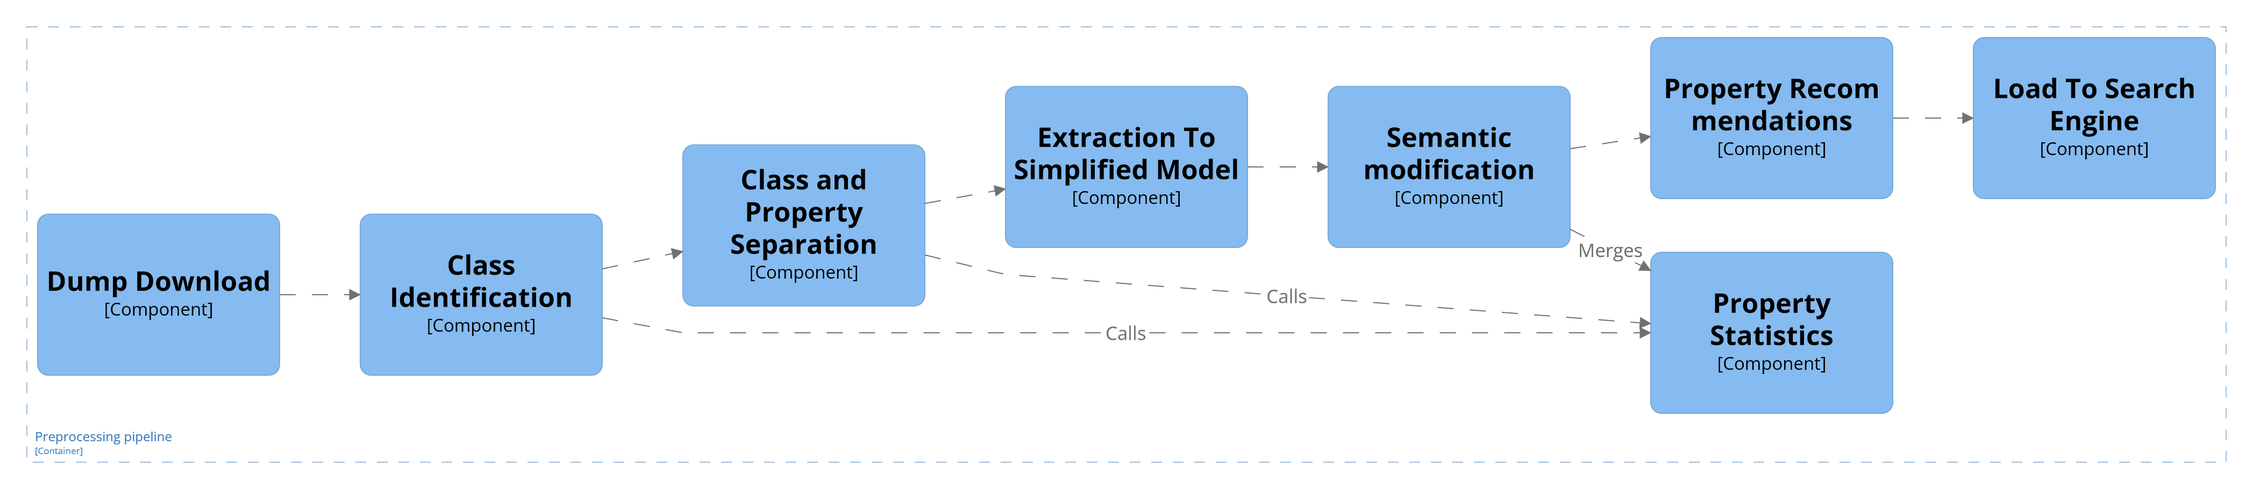
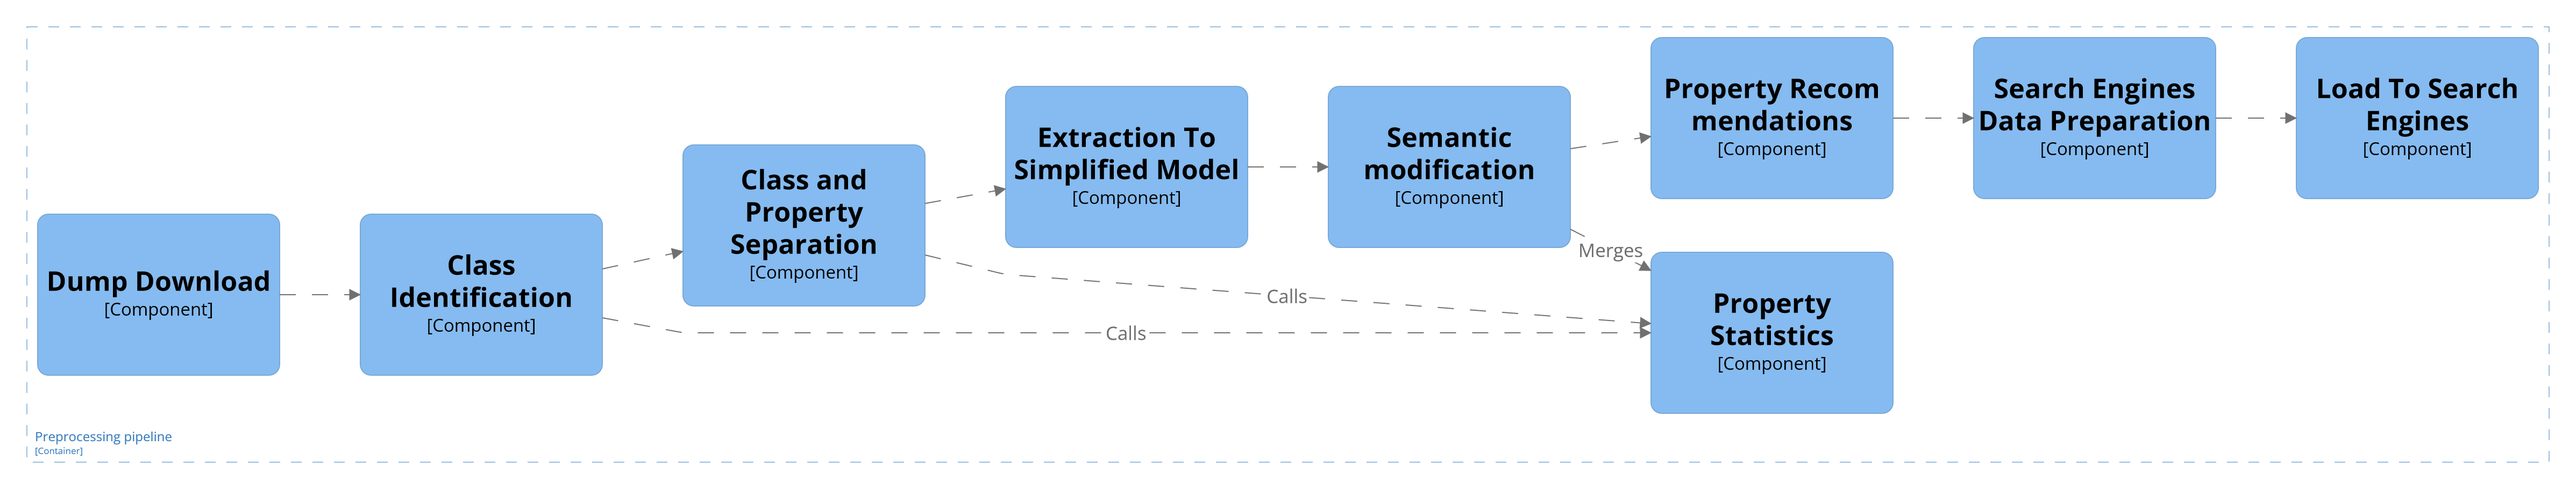
Changeing preprocessing readme

diff --git a/source/preprocessing/phases/run_all.py b/source/preprocessing/phases/run_all.py
@@ -9,9 +9,11 @@ import phases.extraction.extraction_phase as ext
 import phases.modification.modification_phase as mod
 import core.statistics.property_usage as property_usage
 import phases.property_recommendations.property_recommendations_phase as recs
-import phases.search_engine_loading.loading_to_es_search_phase as load
-import phases.search_engine_loading.elastic_search_helpers as load_helpers
-import phases.restart_service as restart_api
+import phases.restart_service as restart
+import phases.experimental_search_engine_data_preparation.search_engine_data_preparation_phase as prep
+import phases.experimental_search_engine_data_preparation.phase_parts.vectorize.vectorize_part as prep_vectorize
+import phases.experimental_search_engine_data_preparation.phase_parts.expand_to_language_fields.expand_to_language_fields_part as prep_expand
+import phases.experimental_search_engine_loading.search_engine_loading_phase as load
 
 main_logger = ul.root_logger.getChild("run_all")
 
@@ -20,6 +22,7 @@ class Phases(StrEnum):
     EXT = "ext"
     MOD = "mod"
     RECS = "recs"
+    PREP = "prep"
     LOAD = "load"
     ALL = "all"
 
@@ -28,7 +31,7 @@ def throw_on_fail(success):
         raise Exception("A phase failed")
 
 @timed(main_logger)    
-def main_run_all(download_dump: bool, continue_from: Phases, exclude_load: bool, restart_api_service: bool):
+def main_run_all(download_dump: bool, continue_from: Phases, exclude_load: bool, restart_services: bool):
     try:
         # Download
         if continue_from in [Phases.ALL] and download_dump:
@@ -55,15 +58,16 @@ def main_run_all(download_dump: bool, continue_from: Phases, exclude_load: bool,
             throw_on_fail(recs.main_property_recommendations(mod.CLASSES_OUTPUT_FILE_PATH, mod.PROPERTIES_OUTPUT_FILE_PATH))
             continue_from = Phases.ALL
         
-        # Load to ES
-        if continue_from in [Phases.ALL, Phases.LOAD] and not exclude_load:
-            load_helpers.delete()
-            load_helpers.create()
-            load_helpers.refresh()
-            throw_on_fail(load.main_loading(recs.CLASSES_OUTPUT_FILE_PATH, recs.PROPERTIES_OUTPUT_FILE_PATH))
+        if continue_from in [Phases.ALL, Phases.PREP]:
+            throw_on_fail(prep.main_search_engine_data_preparation(prep.Phases.ALL, recs.CLASSES_OUTPUT_FILE_PATH, recs.PROPERTIES_OUTPUT_FILE_PATH, download.DUMP_OUTPUT_FILE_PATH))
+            continue_from = Phases.ALL
         
-        if restart_api_service:
-            throw_on_fail(restart_api.main_restart_api_service())
+        if continue_from in [Phases.ALL, Phases.LOAD] and not exclude_load:
+            throw_on_fail(load.main_search_engine_loading(load.Phases.BOTH, prep_vectorize.CLASSE_OUTPUT_FILE_PATH, prep_vectorize.PROPERTIES_OUTPUT_FILE_PATH, prep_expand.CLASSES_OUTPUT_FILE_PATH))
+        
+        if restart_services:
+            throw_on_fail(restart.main_restart_api_service())
+            throw_on_fail(restart.main_restart_search_service())
         
     except Exception as e:
         main_logger.exception("There was an error that cannot be handled")

diff --git a/source/preprocessing/p_run_all_phases.py b/source/preprocessing/p_run_all_phases.py
@@ -14,9 +14,9 @@ if __name__ == "__main__":
     parser.add_argument('--exclude-load', default=False, action=argparse.BooleanOptionalAction, help="If set, the loading phase is exluded from the pipeline.")
     parser.add_argument("--continue-from",
                         type=str,
-                        choices=[Phases.ID_SEP, Phases.EXT, Phases.MOD, Phases.RECS, Phases.LOAD],
+                        choices=[Phases.ID_SEP, Phases.EXT, Phases.MOD, Phases.RECS, Phases.PREP, Phases.LOAD],
                         default=Phases.ALL,
                         help="Continue from a phase. Defaults to running all. Downloading can be done only if not continuing from a phase and download option is set.")    
     args = parser.parse_args()
     
-    main_run_all(args.lang, args.download, args.continue_from, args.exclude_load, args.restart)
+    main_run_all(args.download, args.continue_from, args.exclude_load, args.restart)

diff --git a/source/preprocessing/README.md b/source/preprocessing/README.md
@@ -9,29 +9,45 @@ This section is divided into three parts:
 
 ![missing picture](./readme-pictures/preprocessing.png)
 
-The preprocessing is done in 7 phases.:
+The preprocessing is done in 8 phases.:
 
-0. Download
-1. Identification 
+1. Download
+2. Identification 
    - The first pass of the dump .
      - Identification of classes and properties.
      - *Property usage statistics*
         - Store instance of values for each entity in the dump for further processing.
-2. Separation
+3. Separation
    -  She second pass of the dump.
       -  Separation of classes and properties from the dump into two new files preserving the Wikidata data model.
       -  *Property usage statistics*
            - Store property usage for domain and range of classes.
            - Compute summary from the stored property usage for each class and property.   
-3. Extraction 
+4. Extraction 
    - The data from separated wikidata classes and properties are extracted into a simplified data model.
-4. Modification
+5. Modification
    - Semantic and structural modifications are done on the simplified data model.
-5. Property Recommendations
+6. Property Recommendations
    - Merging of recommendations from property usage statistics with property constraints.
    - Boosting "properties for this type" properties.
-6. Loading to search engine
-   - Load labels and aliases into ElasticSearch service.
+7. Search Engines Data Preparation
+   - Prepares the data that will be loaded into Search engine and appropariate databases (Elastic and Qdrant).
+   - Consists of 5 parts:
+     1. Reduction of property usage 
+         - Enables efficient filtering for classes containing a set of properties.
+     2. Expanding to language fields 
+         - Expands specified entity ids fields into language fields (e.g. subclass of ids will be expanded to class labels)
+         - Essentially needs to iterate over the Wikidata dump again if the fields contain references to entities not present in the ontology.
+         - This enables a better lexicalization of entities.
+      3. Lexicalize entities
+         - Creates lexicalization of entities that will be subsequently vectorized.
+      4. Vecorize entities
+         - Vectorize the lexicalization of entities into dense and sparse vectors.
+      5. Minimization
+         - Creates new files containing minimized entities.
+         - Since the Search service itself does not need all the data from the preparation phase, this enables a faster start up of the Search service.        
+8. Loading to search engine
+   - Loads the prepared data into Qdrant database (vector search) and Elastic search (full-text search).
 
 > Note: 
 > 1. During 1. and 2. phase, there are running statistics for property usage happening during the dump pases. The statistics run with during 1. and 2. phase to reduce time of the computation.
@@ -52,7 +68,7 @@ There is also a script that is able to run all the phases at once (the bottom of
 ## Before running the scippts
 
 - Before running the scripts, read the instructions and preferably comments for each of the phases in `phases` folder.
-- The the pipeline also assumes there is an Elastic Search service running, that is later used by the API service.
+- The the last phases of the pipeline assumes there are runnig services: Qdrant, Elastic Search, and possibly the Seach service and API service in case the restart is needed - this service can restart the two mentioned services that is equivalent to reloading the new ontology files.
 - Read at the end how to run in development and containerization.
 
 ### Requirements
@@ -60,16 +76,22 @@ There is also a script that is able to run all the phases at once (the bottom of
 - Python 3.11 and above
 - Elastic Search 8.13 and above
 - Mamory and time
-  - The runtimes and memory was measured on virtual infrasctructure with Ubuntu 22 with 64 GB of RAM and 32 core processor (altough this phase does not use multithreading).
+  - The runtimes and memory was measured on virtual infrasctructure with Ubuntu 22 with 64 GB of RAM and 32 core processor.
+    - Most of the scripts are single thread, the vectorization uses multiple threads from within the `pytorch` library.
   - Memory
-    - Wikidata gzip dump ~ 130 GB (as of 4.4.2024) on disk, depending on the current size
-    - Phases (counting in reserves and disregarding Elastic Search):
+    - Wikidata gzip dump ~ 130 GB (as of 4.4.2024) on disk, depending on the current size.
+    - Phases (counting in reserves):
       - The 1. and 2. phase of preprocessing require at least 32 GB of RAM
       - For the rest at least 16 GB
   - Time
     - Downloading depends on the internet connection
       - A university server took ~ 7 hours
-    - After downloading, ~ 11 hours to preprocess everything. 
+    - After downloading
+      -  ~ 11 hours to be able to load data into API service.
+         -  Mostly linear in execution and hard to parallelize.
+      -  ~ 14 hours to prepare the data for loading.
+         -  The excessive time comes from the Language models vectorization.
+         -  It can be improved with the GPU or more CPUs.
 
 ### Installing dependencies
 
@@ -100,7 +122,7 @@ The main script is `p_download.py`.
         $> python p_download.py
 
 - Output:
-  - A file in the folder of script execution.
+  - A file in the `output` directory.
     - `latest-all.json.gz` - the downloaded Wikidata json dump in GZIP format.
 
 - Logging prefix: `download`
@@ -147,7 +169,7 @@ The main script is `p_extraction.py`.
       - For both extractions - use `both`
   - Required paths to `classes.json.gz` and `properties.json.gz` from previous phase, in the given order.
 
-        $> python p_extraction.py both classes.json.gz properties.json.gz
+        $> python p_extraction.py both ./output/classes.json.gz ./output/properties.json.gz
 
 - Output:
   - Files in the `output` directory, containing entities in the new simplified model.
@@ -166,7 +188,7 @@ The main script is `p_modification.py`.
 - Input:
   - Required paths to `classes-ex.json`, `properties-ex.json`, `classes-property-usage.json` and `properties-domain-range-usage.json` in the given order, from the 3. phase
 
-        $> python p_modification.py classes-ex.json properties-ex.json classes-property-usage.json properties-domain-range-usage.json
+        $> python p_modification.py ./output/classes-ex.json ./output/properties-ex.json ./output/classes-property-usage.json ./output/properties-domain-range-usage.json
 
 - Output:
   - Files in the `output` directory, containing the modified classes and properties.
@@ -185,7 +207,7 @@ The main script is `p_property_recommendations.py`.
 - Input:
   - Required paths to `classes-mod.json` and `properties-mod.json` in the given order from the fourth phase.
 
-        $> python p_property_recommendations.py classes-mod.json properties-mod.json
+        $> python p_property_recommendations.py ./output/classes-mod.json ./output/properties-mod.json
 
 - Output:
   - Files in the `output` directory, containing the merged and reordered domains/ranges of classes and properties.
@@ -194,7 +216,7 @@ The main script is `p_property_recommendations.py`.
 
 - Logging prefix: `property_recommendations`
 
-## Loading into search service (6. phase)
+## (DEPRECATED) Loading into search service (6. phase)
 
 The phase loads labels and aliases into a search service - elastic search. 
 Assuming the Elastic search runs on client from `utils.elastic_search.py`.
@@ -242,7 +264,84 @@ It either creates, refreshes or deletes classes and properties indices.
 
 - Logging prefix: `es_helpers`
 
-## Restart the Wikidata ontology API service or the Wikidata Search service
+
+## Search engine data preparation (6. phase)
+
+The phase prepares the data to be loaded into a Search service and appropriate databases (Qdrant and Elastic search).
+Assuming there are running Qdrant and Elastic search services.
+The main script is `p_experimental_search_engine_data_preparation.py`.
+
+- Input:
+  - A required `phase` parameter.
+    - Each phase represents a part of the preparation.
+    - Phases: `["all", "reduce", "expand", "lexicalize", "vectorize", "minimize"]`
+    - `all` essentially runs all the parts.
+    - Each phase is dependent on the previous one. Order is as given in the phases array above (except the `all` phase).
+  - Required file paths `classJsonFile` and `propertiesJsonFile` to the preprocessed files from 5. phase (`recs` phase).
+  - A required file path `gzipDumpFile` to the Wikidata GZIP json dump. Needed for expanding to langauge fields phase. 
+
+          &> python p_experimental_search_engine_data_preparation all ./output/classes-recs.json ./output/properties-recs.json ./latest-all.json.gz
+
+- Output:
+  - For each phase, there is a set of output files in the `output` directory.
+    - All files start with a prefix `(properties|clases)-experimental-prep-` followed by the number of the phase and its name (the same as in the phases array above).
+
+- Logging prefix: `experimental_search_engine_data_preparation`
+
+## Loading to search engines (7. phase)
+
+The phase loads the prepared data to Elastic search and Qdrant database.
+The main script is `p_experimental_search_engine_loading.py`.
+
+- Input:
+  - A required `phase` parameter.
+    - Each phase represents the loading to the database.
+    - Phases: `["elastic", "qdrant", "both"]`
+    - `both` meaning to load to both Elastic search and Qdrant.
+  - Required file paths `classesJsonFile` and `propertiesJsonFile` to the `vectorize` phase output.
+  - A required file path `expandedLabelsJsonFile` to the `expand` phase output.
+    - To enable modification of the data passed to Elastic. 
+
+        &> python p_experimental_search_engine_loading both ./output/classes-experimental-prep-4-vectorize.json ./output/properties-experimental-prep-4-vectorize.json ./output/classes-experimental-prep-2-expand
+
+- Output:
+  - None 
+
+- Logging prefix: `experimental_search_engine_loading`
+
+### Helpers
+
+The phase also contains a script `p_experimental_search_engine_loading_helpers.py` for easier monitoring and working with the Databases. 
+
+- Usage:
+
+      # Get Qdrant collections status
+      $> python p_experimental_search_engine_loading_helpers.py qdrant_info
+
+      # Delete all Qdrant collections
+      $> python p_experimental_search_engine_loading_helpers.py qdrant_delete
+
+      # Create Elastic indices
+      $> python p_experimental_search_engine_loading_helpers.py es_create
+
+      # Delete all Elastic indices
+      $> python p_experimental_search_engine_loading_helpers.py es_delete
+
+      # Refreshing Elastic indices
+      $> python p_experimental_search_engine_loading_helpers.py es_refresh
+
+      # Listing Elastic indices
+      $> python p_experimental_search_engine_loading_helpers.py es_list
+
+      # List Elastic mappings of indices
+      $> python p_experimental_search_engine_loading_helpers.py es_mappings
+
+      # List Elastic indices sizes
+      $> python p_experimental_search_engine_loading_helpers.py es_size
+
+## Additional scripts
+
+### Restart the Wikidata ontology API service or the Wikidata Search service
 
 The scripts are `p_restart_api_service.py` and `p_restart_search_service.py`.
 They restart the Wikidata API/Search service in order to load the new preprocessed ontology.
@@ -263,27 +362,28 @@ They restart the Wikidata API/Search service in order to load the new preprocess
 
 - Logging prefix: `restart_service`
 
-## Run all script
+### Run all script
 
 The script runs all phases.
 The main file is `p_run_all_phases.py`.
+If you need more fine-grained approach, use the specific scripts.
 
 - Input:
   - Optional boolean flag argument whether to donwload the newest dump.
     - `--donwload`
     - Defaults to `False`
     - The `True` will **overwrite the existing dump** in the current folder.
+    - It is expected that the GZIP dump file is located in the `output` directory if downloading is disabled. 
   - Optional boolean flag argument whether to restart the API service.
     - `--restart`
     - Defaults to `False`.
   - Optional argument to continue from a specific phase.
-    - `--continue-from` `[id_sep | ext | mod | recs | load]`
+    - `--continue-from` `[id_sep | ext | mod | recs | prep | load]`
     - Each value represents a phase based on the output files suffixes.
     - The preprocessing will continue from the given phase.
     - If the argument is used, the download flag is disregarded.
-  - Optional flag to exclude the loading into the Elastic search.
+  - Optional flag to exclude the loading into the Elastic search and Qdrant.
     - `--no-load`
-    - In case you wanted to run the pipeline without relying on the Elastic. You can always run it separately.
 
 ## Notes on the file output formats
 
